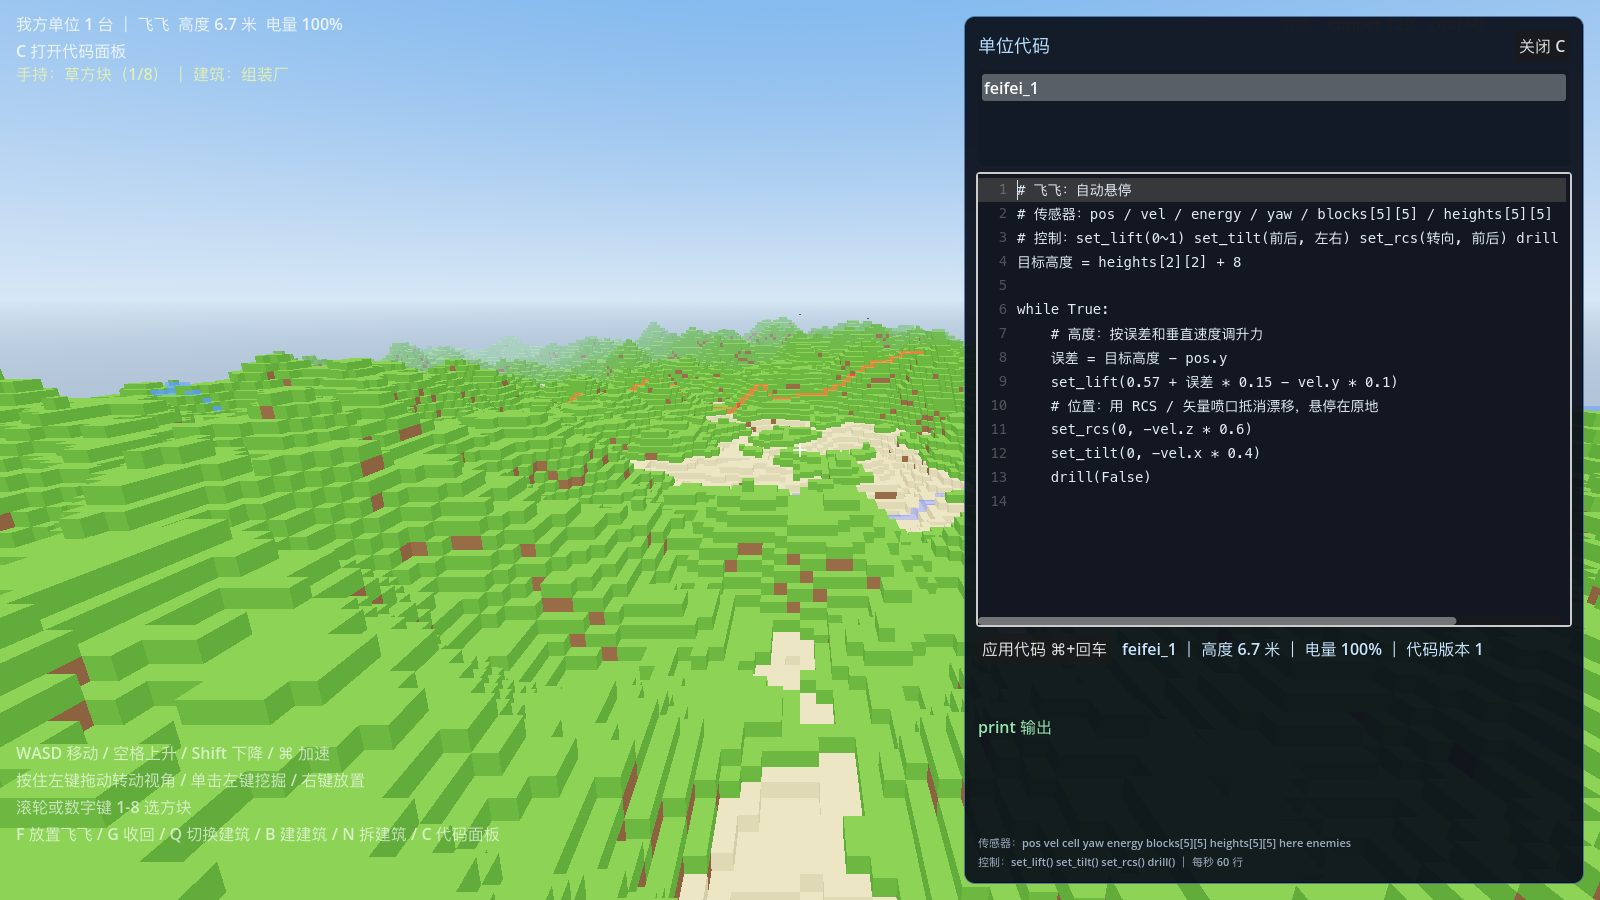
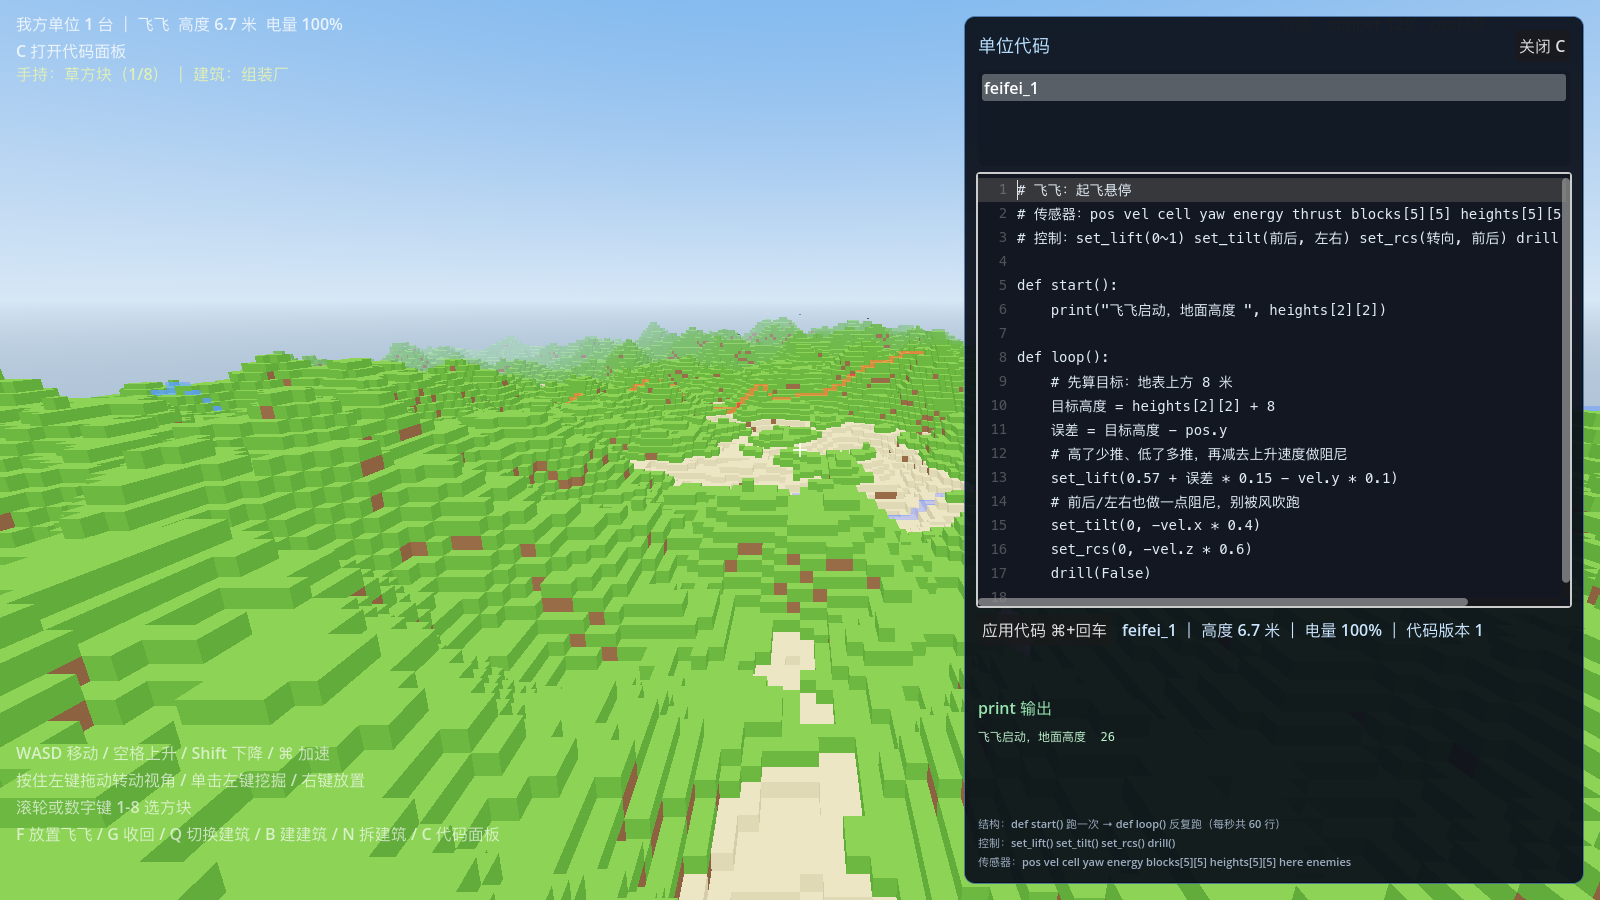
代码分 start/loop 两段式执行；点非代码区释放键盘焦点；新增飞飞快速上手指南

diff --git a/docs/飞飞快速上手.md b/docs/飞飞快速上手.md
@@ -1,0 +1,177 @@
+# 飞飞快速上手：怎么让无人机飞起来
+
+游戏里每台飞飞跑的是**你自己写的一段代码**。代码跑在游戏的沙箱里，
+**每秒执行 60 行**（不是每帧 60 行，是每秒总共 60 条语句）。
+
+在游戏里按 **C** 打开右边的代码面板，改完点「应用代码」（或 ⌘+回车）立刻生效。
+也可以直接**双击画面里自己的飞飞**打开它的代码。
+
+---
+
+## 一、代码长什么样
+
+每台单位的代码由两个函数组成：
+
+```python
+def start():
+    # 只跑一次：开局、或者你点了「应用」之后的第一件事
+    print("起飞")
+
+def loop():
+    # 一直跑：这段会被反复执行，直到单位被击毁或者你改代码
+    set_lift(0.6)
+```
+
+- `start()` 可以完全不写；不写就只跑 `loop()`。
+- 两个都不写也行：那就跟以前一样，整段代码循环执行。
+- **`start()` 里的变量如果要留给 `loop()`，放进 `mem`**（见第四节）。
+- `print()` 的内容显示在面板下方的「print 输出」里，调试很有用。
+
+> 每秒 60 行的意思：如果你在 `loop()` 里写了 10 行，那么每秒大约跑 6 次；
+> 写了 30 行就是每秒 2 次。想让它反应更快，就把 `loop()` 写短一点。
+
+---
+
+## 二、四个控制指令
+
+| 指令 | 作用 | 取值范围 |
+| --- | --- | --- |
+| `set_lift(升力)` | 底部矢量喷口的推力大小 | 0 ~ 1，飞飞满推 520 牛 |
+| `set_tilt(前后, 左右)` | 喷口偏转方向（矢量喷口） | 各 -1 ~ 1，正数 = 往前/往左 |
+| `set_rcs(转向, 前后)` | 两侧小喷口，转向和前后微调 | 各 -1 ~ 1 |
+| `drill(True/False)` | 开/关前置激光钻头 | `True` 开，`False` 关 |
+
+飞飞自重 12kg，重力 24 m/s²，满推力 520 牛 ≈ 能推起 21kg。
+所以**悬停大概需要 `set_lift(0.57)` 左右**，再靠比例微调。
+
+---
+
+## 三、最小可用：起飞并悬停
+
+```python
+def loop():
+    # 目标是「脚下地表 + 8 米」
+    目标高度 = heights[2][2] + 8
+    误差 = 目标高度 - pos.y
+    # 低了多推、高了少推；再减去上升速度，防止冲过头
+    set_lift(0.57 + 误差 * 0.15 - vel.y * 0.1)
+```
+
+这三行就是飞飞的自动驾驶基础，下面所有例子都是在这个上面加东西。
+
+---
+
+## 四、记忆：`mem`
+
+`mem` 是一个字典，**重新开始（跑完 loop 再跑 loop、或者 start 换 loop）时不会被清空**：
+
+```python
+def start():
+    mem["阶段"] = 0
+    mem["起点x"] = pos.x
+
+def loop():
+    if mem["阶段"] == 0:
+        # 起飞
+        set_lift(0.8)
+        if pos.y > heights[2][2] + 6:
+            mem["阶段"] = 1
+    else:
+        # 悬停
+        set_lift(0.57 - vel.y * 0.1)
+```
+
+---
+
+## 五、传感器（每帧自动更新，直接当变量用）
+
+| 变量 | 内容 |
+| --- | --- |
+| `pos.x / pos.y / pos.z` | 世界坐标（米） |
+| `vel.x / vel.y / vel.z` | 速度（米/秒） |
+| `cell.x / cell.y / cell.z` | 所在方块格 |
+| `yaw` | 朝向（弧度） |
+| `energy` / `energy_ratio` | 剩余电量（焦耳）/ 0~1 |
+| `thrust` | 当前实际推力（牛） |
+| `drill_hits` | 一共钻掉多少方块 |
+| `blocks[i][j]` | 雷达 5×5 表面方块名字符串，`[2][2]` 自己脚下 |
+| `heights[i][j]` | 雷达 5×5 的地表高度 |
+| `here` | 正下方方块名 |
+| `enemies` | 敌方单位列表（最近的在前），每项有 `.x .y .z` |
+
+---
+
+## 六、往前飞
+
+```python
+def loop():
+    目标高度 = heights[2][2] + 8
+    误差 = 目标高度 - pos.y
+    set_lift(0.57 + 误差 * 0.15 - vel.y * 0.1)
+    # 想要的速度：每秒 6 米
+    想要 = 6.0
+    set_tilt((vel.x - 想要) * 0.1, 0)   # 速度不够就往前倾
+    set_rcs(0, -vel.z * 0.6)            # 顺便别往侧面漂
+```
+
+`set_tilt` 正数是往前（+X 方向）。想往后飞就写负数。
+
+---
+
+## 七、钻地 / 挖矿
+
+```python
+def loop():
+    目标高度 = heights[2][2] + 1.2   # 贴地飞
+    误差 = 目标高度 - pos.y
+    set_lift(0.57 + 误差 * 0.15 - vel.y * 0.1)
+    drill(True)                      # 一直开着钻头
+```
+
+钻头在机头前方 1.5 米内打到方块就会挖掉，挖掉的东西直接进仓库
+（煤、铜…）。电量每秒掉一点，`energy_ratio` 低于 20% 就省着点用。
+
+---
+
+## 八、追着敌人钻
+
+```python
+def loop():
+    目标高度 = heights[2][2] + 8
+    误差 = 目标高度 - pos.y
+    set_lift(0.57 + 误差 * 0.15 - vel.y * 0.1)
+
+    if len(enemies) > 0:
+        敌 = enemies[0]              # 最近的一台
+        距离 = 敌.x - pos.x
+        想要 = max(-6, min(6, 距离 * 1.2))   # 靠近了就别冲太快
+        if abs(距离) < 1.5:
+            想要 = 0
+        set_tilt(max(-1, min(1, (vel.x - 想要) * 0.08)), 0)
+        drill(abs(距离) < 2.5)       # 贴上去开钻
+    else:
+        set_tilt(0, 0)
+        drill(False)
+```
+
+---
+
+## 九、能用的语法（Python 子集）
+
+支持：`if / elif / else`、`while`、`for i in range(...)`、`def`、`break`、`continue`、
+列表、字典、字符串、`+ - * / // % **`、比较、`and/or/not`、`in`、中文变量名。
+内置函数：`print`、`len`、`abs`、`min`、`max`、`int`、`float`、`str`、`round`、`bool`、`range`。
+
+不支持（写了会报错，不会崩溃）：`import`、`class`、`lambda`、`try`、`with`、
+`yield`、`global`、`async`、f-string、三引号字符串。
+
+---
+
+## 十、出错怎么办
+
+- 出错时单位会**停住不动**，面板上显示 `第 N 行 错误类型: 说明`
+- 改完点「应用」就会重新加载，错误清空
+- 死循环不会卡死游戏：行数预算用完这一帧就停，下一帧接着跑
+- 电量耗尽的单位不执行代码、也没有推力 —— 落在原地等修
+
+更完整的语言参考见 [单位编程手册.md](单位编程手册.md)。

diff --git a/README.md b/README.md
@@ -11,6 +11,7 @@
 - 内置沙箱字节码 VM：玩家写的类 Python 代码可以在游戏里安全执行，不依赖外部解释器
 - 代码面板（C 键，贴在屏幕右侧）：上面选单位、中间编辑代码、下面看状态/错误/print 输出；列表里只有自己的单位
 - 双击屏幕上的本方单位 → 直接打开它的代码
+- 单位代码分 `start()`（跑一次）和 `loop()`（一直跑）两段，每秒 60 行；教程见 [docs/飞飞快速上手.md](docs/飞飞快速上手.md)
 - 资源：挖矿得煤矿/铜矿，放单位扣资源，收回退款
 - 建筑（M4）：Q 切换、B 对准地面放置、N 拆除退款。**采矿机**每 1.2 秒挖掉脚下一块矿；**组装厂**每 18 秒花掉一台飞飞的造价，直接在旁边下线一台
 - 两队对抗：红方 3 台脚本 AI 无人机会追着你的单位打，一方单位清零即分胜负，R 重开

diff --git a/docs/单位编程手册.md b/docs/单位编程手册.md
@@ -1,6 +1,20 @@
 # 单位编程手册（沙箱脚本语言 v1）
 
-游戏里每个"控制中心"跑一段玩家写的代码，每秒执行 60 行（60 条语句）。
+游戏里每个单位跑一段玩家写的代码，**每秒执行 60 行**（60 条语句）。
+入门教程见 [飞飞快速上手.md](飞飞快速上手.md)。
+
+## 零、两个固定函数
+
+```python
+def start():   # 开局 / 点「应用」之后跑一次
+    ...
+
+def loop():    # 之后一直反复跑
+    ...
+```
+
+只写 `loop()` 也可以；两个都不写就整段代码从头循环（老写法）。
+
 语言是 Python 的受限子集，跑在我们自己实现的沙箱字节码虚拟机里：
 **没有文件、没有网络、没有 import，玩家代码不可能碰到电脑或游戏本体。**
 
